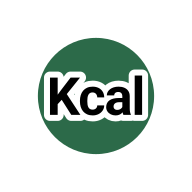
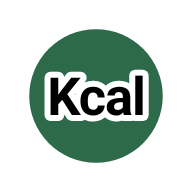
v89: bordo bianco dell'icona Android dimezzato, splash minima 1 secondo
Claude-Session: https://claude.ai/code/session_01NQde6mZoUuyFecDhpXk91C

Changed region(s): [[0.125, 0.125, 0.875, 0.875]]

diff --git a/index.html b/index.html
@@ -398,8 +398,8 @@ details.food .btn.ghost{background:var(--brand);color:#fff;border:0;border-radiu
 </head>
 <body>
 <div id="splash" aria-hidden="true"><svg style="position:absolute;left:4%;top:3%;width:81px;height:81px;transform:rotate(-12deg);" viewBox="0 0 64 64"><path d="M32 18c-6-5-20-4-20 12 0 14 10 26 20 22 10 4 20-8 20-22 0-16-14-17-20-12z" fill="#e5483b"/><path d="M22 24c-4 3-5 9-4 14" stroke="#ff8a7d" stroke-width="3" stroke-linecap="round" fill="none"/><path d="M32 18c0-5 2-9 6-11" stroke="#7a4b2a" stroke-width="3" stroke-linecap="round" fill="none"/><path d="M35 12c4-6 12-6 15-3-3 5-10 7-15 3z" fill="#5fbf4a"/></svg><svg style="position:absolute;left:32%;top:4%;width:68px;height:68px;transform:rotate(6deg);" viewBox="0 0 64 64"><path d="M44 18c4 2 6 6 4 10L20 58c-2 2-5 0-4-2L36 20c2-3 5-4 8-2z" fill="#f58a1f"/><path d="M44 18c2 1 3 3 3 5L22 56c-1 1-2 0-2-1z" fill="#ffa64d" opacity=".55"/><path d="M30 33l5 2M26 41l5 2M34 26l4 1" stroke="#d96a0c" stroke-width="2.2" stroke-linecap="round"/><path d="M44 18c-3-6-2-12 1-15 3 5 3 10-1 15z" fill="#3e9a43"/><path d="M45 19c4-5 10-6 13-4-3 5-8 6-13 4z" fill="#5fbf4a"/><path d="M44 18c1-6 5-10 9-11 0 5-4 9-9 11z" fill="#4caf50"/></svg><svg style="position:absolute;left:58%;top:1%;width:84px;height:84px;transform:rotate(14deg);" viewBox="0 0 64 64"><path d="M12 14c-2 20 10 38 32 40 6 1 11-1 13-4-2-2-4-2-7-2-17-1-28-14-30-33z" fill="#ffd84a"/><path d="M12 14c0 18 11 34 31 37 5 1 9 0 12-2-16-1-28-12-31-31z" fill="#f2c12e"/><path d="M17 20c2 14 11 25 25 28" stroke="#fff3a6" stroke-width="2.4" fill="none" stroke-linecap="round" opacity=".8"/><path d="M10 10l5-2 3 7-5 2z" fill="#7a6a32"/><path d="M55 48l4-1 1 4-4 1z" fill="#5a4a22"/></svg><svg style="position:absolute;left:82%;top:6%;width:54px;height:54px;transform:rotate(8deg);" viewBox="0 0 64 64"><path d="M32 58C18 48 12 34 16 26c3-5 9-6 16-6s13 1 16 6c4 8-2 22-16 32z" fill="#e53950"/><g fill="#ffd54f"><circle cx="24" cy="30" r="1.4"/><circle cx="32" cy="28" r="1.4"/><circle cx="40" cy="30" r="1.4"/><circle cx="28" cy="38" r="1.4"/><circle cx="36" cy="38" r="1.4"/><circle cx="32" cy="46" r="1.4"/></g><path d="M20 22c4 0 8-4 12-10 4 6 8 10 12 10-4 3-8 3-12 1-4 2-8 2-12-1z" fill="#4caf50"/></svg><svg style="position:absolute;left:16%;top:14%;width:54px;height:54px;transform:rotate(-6deg);" viewBox="0 0 64 64"><circle cx="32" cy="32" r="22" fill="#f7d23e"/><circle cx="32" cy="32" r="18" fill="#fff6c7"/><g stroke="#f7d23e" stroke-width="2.5"><path d="M32 15v34M15 32h34M20 20l24 24M44 20L20 44"/></g><circle cx="32" cy="32" r="3" fill="#fff6c7"/></svg><svg style="position:absolute;left:44%;top:13%;width:76px;height:76px;transform:rotate(-8deg);" viewBox="0 0 64 64"><path d="M28 34h8l3 20h-14z" fill="#8bc34a"/><circle cx="22" cy="28" r="10" fill="#3e9a43"/><circle cx="42" cy="28" r="10" fill="#3e9a43"/><circle cx="32" cy="20" r="12" fill="#4caf50"/><circle cx="26" cy="19" r="3" fill="#6cc25a"/><circle cx="38" cy="24" r="3" fill="#6cc25a"/></svg><svg style="position:absolute;left:72%;top:16%;width:76px;height:76px;transform:rotate(10deg);" viewBox="0 0 64 64"><circle cx="32" cy="35" r="21" fill="#f7931e"/><circle cx="25" cy="28" r="6" fill="#ffb55c" opacity=".7"/><g fill="#e07b0c" opacity=".55"><circle cx="38" cy="40" r="1.2"/><circle cx="30" cy="44" r="1.2"/><circle cx="42" cy="32" r="1.2"/><circle cx="22" cy="40" r="1.2"/></g><path d="M32 14c0-3 1-5 3-6" stroke="#6b4a24" stroke-width="2.4" stroke-linecap="round" fill="none"/><path d="M34 12c5-5 12-4 14-1-4 4-10 4-14 1z" fill="#4caf50"/></svg><svg style="position:absolute;left:2%;top:25%;width:68px;height:68px;transform:rotate(-10deg);" viewBox="0 0 64 64"><g fill="#7b3fa0"><circle cx="24" cy="24" r="7"/><circle cx="38" cy="24" r="7"/><circle cx="31" cy="34" r="7"/><circle cx="18" cy="35" r="6"/><circle cx="44" cy="35" r="6"/><circle cx="25" cy="45" r="6"/><circle cx="38" cy="45" r="6"/><circle cx="31" cy="55" r="5"/></g><g fill="#a86bd0" opacity=".7"><circle cx="22" cy="22" r="2"/><circle cx="36" cy="22" r="2"/><circle cx="29" cy="32" r="2"/></g><path d="M31 17c0-4 2-7 5-9" stroke="#6b4a24" stroke-width="2.6" stroke-linecap="round" fill="none"/><path d="M36 12c5-4 11-3 13 0-4 3-9 4-13 0z" fill="#5fbf4a"/></svg><svg style="position:absolute;left:60%;top:25%;width:81px;height:81px;transform:rotate(-6deg);" viewBox="0 0 64 64"><circle cx="32" cy="32" r="22" fill="#8a6b3a"/><circle cx="32" cy="32" r="19" fill="#8dc63f"/><circle cx="32" cy="32" r="8" fill="#e8f3c4"/><g fill="#2d2a1e"><circle cx="32" cy="21" r="1.4"/><circle cx="40" cy="25" r="1.4"/><circle cx="43" cy="32" r="1.4"/><circle cx="40" cy="39" r="1.4"/><circle cx="32" cy="43" r="1.4"/><circle cx="24" cy="39" r="1.4"/><circle cx="21" cy="32" r="1.4"/><circle cx="24" cy="25" r="1.4"/></g></svg><svg style="position:absolute;left:84%;top:27%;width:81px;height:81px;transform:rotate(12deg);" viewBox="0 0 64 64"><path d="M32 12c-5 0-6 6-8 12-2 5-8 9-8 18a16 16 0 0032 0c0-9-6-13-8-18-2-6-3-12-8-12z" fill="#a5cf4a"/><path d="M24 40c0 5 3 9 7 10" stroke="#c8e57a" stroke-width="3" stroke-linecap="round" fill="none"/><path d="M32 12c0-4 1-6 3-8" stroke="#7a4b2a" stroke-width="3" stroke-linecap="round" fill="none"/><path d="M34 8c4-3 9-2 10 0-3 3-7 3-10 0z" fill="#5fbf4a"/></svg><svg style="position:absolute;left:28%;top:24%;width:70px;height:70px;transform:rotate(-16deg);" viewBox="0 0 64 64"><circle cx="32" cy="36" r="20" fill="#e53935"/><ellipse cx="24" cy="30" rx="5" ry="7" fill="#ff7a6e" opacity=".6"/><path d="M32 18l-4-6 4 3 4-3-4 6 9-2-7 5 6 4-8-2-8 2 6-4-7-5z" fill="#3e9a43"/></svg><svg style="position:absolute;left:3%;top:39%;width:73px;height:73px;transform:rotate(-14deg);" viewBox="0 0 64 64"><path d="M32 6c-8 0-12 14-16 24-5 12 3 26 16 26s21-14 16-26C44 20 40 6 32 6z" fill="#3f7d2e"/><path d="M32 12c-6 0-9 11-12 19-4 10 3 20 12 20s16-10 12-20C41 23 38 12 32 12z" fill="#cfe58a"/><circle cx="32" cy="37" r="8" fill="#8a5a33"/><circle cx="29.5" cy="34.5" r="2.4" fill="#b07a4d"/></svg><svg style="position:absolute;left:82%;top:38%;width:78px;height:78px;transform:rotate(8deg);" viewBox="0 0 64 64"><path d="M40 22c10 4 14 18 6 28-8 10-26 8-30-2-3-8 4-14 10-16 6-2 8-12 14-10z" fill="#6a3d8f"/><path d="M26 40c2 6 8 9 14 8" stroke="#9a6bc2" stroke-width="3" fill="none" stroke-linecap="round" opacity=".7"/><path d="M38 20c2-4 6-6 10-5-1 4-4 7-8 8z" fill="#4caf50"/><path d="M36 22c4-1 8 1 10 4-4 1-8 0-10-4z" fill="#3e9a43"/><path d="M46 15l4-6" stroke="#3e9a43" stroke-width="3" stroke-linecap="round"/></svg><svg style="position:absolute;left:5%;top:67%;width:81px;height:81px;transform:rotate(12deg);" viewBox="0 0 64 64"><path d="M32 12c-5 0-6 6-8 12-2 5-8 9-8 18a16 16 0 0032 0c0-9-6-13-8-18-2-6-3-12-8-12z" fill="#a5cf4a"/><path d="M24 40c0 5 3 9 7 10" stroke="#c8e57a" stroke-width="3" stroke-linecap="round" fill="none"/><path d="M32 12c0-4 1-6 3-8" stroke="#7a4b2a" stroke-width="3" stroke-linecap="round" fill="none"/><path d="M34 8c4-3 9-2 10 0-3 3-7 3-10 0z" fill="#5fbf4a"/></svg><svg style="position:absolute;left:30%;top:69%;width:68px;height:68px;transform:rotate(-10deg);" viewBox="0 0 64 64"><g fill="#7b3fa0"><circle cx="24" cy="24" r="7"/><circle cx="38" cy="24" r="7"/><circle cx="31" cy="34" r="7"/><circle cx="18" cy="35" r="6"/><circle cx="44" cy="35" r="6"/><circle cx="25" cy="45" r="6"/><circle cx="38" cy="45" r="6"/><circle cx="31" cy="55" r="5"/></g><g fill="#a86bd0" opacity=".7"><circle cx="22" cy="22" r="2"/><circle cx="36" cy="22" r="2"/><circle cx="29" cy="32" r="2"/></g><path d="M31 17c0-4 2-7 5-9" stroke="#6b4a24" stroke-width="2.6" stroke-linecap="round" fill="none"/><path d="M36 12c5-4 11-3 13 0-4 3-9 4-13 0z" fill="#5fbf4a"/></svg><svg style="position:absolute;left:56%;top:68%;width:81px;height:81px;transform:rotate(10deg);" viewBox="0 0 64 64"><path d="M32 18c-6-5-20-4-20 12 0 14 10 26 20 22 10 4 20-8 20-22 0-16-14-17-20-12z" fill="#e5483b"/><path d="M22 24c-4 3-5 9-4 14" stroke="#ff8a7d" stroke-width="3" stroke-linecap="round" fill="none"/><path d="M32 18c0-5 2-9 6-11" stroke="#7a4b2a" stroke-width="3" stroke-linecap="round" fill="none"/><path d="M35 12c4-6 12-6 15-3-3 5-10 7-15 3z" fill="#5fbf4a"/></svg><svg style="position:absolute;left:80%;top:66%;width:78px;height:78px;transform:rotate(8deg);" viewBox="0 0 64 64"><path d="M40 22c10 4 14 18 6 28-8 10-26 8-30-2-3-8 4-14 10-16 6-2 8-12 14-10z" fill="#6a3d8f"/><path d="M26 40c2 6 8 9 14 8" stroke="#9a6bc2" stroke-width="3" fill="none" stroke-linecap="round" opacity=".7"/><path d="M38 20c2-4 6-6 10-5-1 4-4 7-8 8z" fill="#4caf50"/><path d="M36 22c4-1 8 1 10 4-4 1-8 0-10-4z" fill="#3e9a43"/><path d="M46 15l4-6" stroke="#3e9a43" stroke-width="3" stroke-linecap="round"/></svg><svg style="position:absolute;left:14%;top:79%;width:81px;height:81px;transform:rotate(-6deg);" viewBox="0 0 64 64"><circle cx="32" cy="32" r="22" fill="#8a6b3a"/><circle cx="32" cy="32" r="19" fill="#8dc63f"/><circle cx="32" cy="32" r="8" fill="#e8f3c4"/><g fill="#2d2a1e"><circle cx="32" cy="21" r="1.4"/><circle cx="40" cy="25" r="1.4"/><circle cx="43" cy="32" r="1.4"/><circle cx="40" cy="39" r="1.4"/><circle cx="32" cy="43" r="1.4"/><circle cx="24" cy="39" r="1.4"/><circle cx="21" cy="32" r="1.4"/><circle cx="24" cy="25" r="1.4"/></g></svg><svg style="position:absolute;left:42%;top:80%;width:68px;height:68px;transform:rotate(-20deg);" viewBox="0 0 64 64"><path d="M44 18c4 2 6 6 4 10L20 58c-2 2-5 0-4-2L36 20c2-3 5-4 8-2z" fill="#f58a1f"/><path d="M44 18c2 1 3 3 3 5L22 56c-1 1-2 0-2-1z" fill="#ffa64d" opacity=".55"/><path d="M30 33l5 2M26 41l5 2M34 26l4 1" stroke="#d96a0c" stroke-width="2.2" stroke-linecap="round"/><path d="M44 18c-3-6-2-12 1-15 3 5 3 10-1 15z" fill="#3e9a43"/><path d="M45 19c4-5 10-6 13-4-3 5-8 6-13 4z" fill="#5fbf4a"/><path d="M44 18c1-6 5-10 9-11 0 5-4 9-9 11z" fill="#4caf50"/></svg><svg style="position:absolute;left:70%;top:78%;width:84px;height:84px;transform:rotate(14deg);" viewBox="0 0 64 64"><path d="M12 14c-2 20 10 38 32 40 6 1 11-1 13-4-2-2-4-2-7-2-17-1-28-14-30-33z" fill="#ffd84a"/><path d="M12 14c0 18 11 34 31 37 5 1 9 0 12-2-16-1-28-12-31-31z" fill="#f2c12e"/><path d="M17 20c2 14 11 25 25 28" stroke="#fff3a6" stroke-width="2.4" fill="none" stroke-linecap="round" opacity=".8"/><path d="M10 10l5-2 3 7-5 2z" fill="#7a6a32"/><path d="M55 48l4-1 1 4-4 1z" fill="#5a4a22"/></svg><svg style="position:absolute;left:22%;top:90%;width:76px;height:76px;transform:rotate(10deg);" viewBox="0 0 64 64"><circle cx="32" cy="35" r="21" fill="#f7931e"/><circle cx="25" cy="28" r="6" fill="#ffb55c" opacity=".7"/><g fill="#e07b0c" opacity=".55"><circle cx="38" cy="40" r="1.2"/><circle cx="30" cy="44" r="1.2"/><circle cx="42" cy="32" r="1.2"/><circle cx="22" cy="40" r="1.2"/></g><path d="M32 14c0-3 1-5 3-6" stroke="#6b4a24" stroke-width="2.4" stroke-linecap="round" fill="none"/><path d="M34 12c5-5 12-4 14-1-4 4-10 4-14 1z" fill="#4caf50"/></svg><svg style="position:absolute;left:56%;top:90%;width:54px;height:54px;transform:rotate(-8deg);" viewBox="0 0 64 64"><path d="M32 58C18 48 12 34 16 26c3-5 9-6 16-6s13 1 16 6c4 8-2 22-16 32z" fill="#e53950"/><g fill="#ffd54f"><circle cx="24" cy="30" r="1.4"/><circle cx="32" cy="28" r="1.4"/><circle cx="40" cy="30" r="1.4"/><circle cx="28" cy="38" r="1.4"/><circle cx="36" cy="38" r="1.4"/><circle cx="32" cy="46" r="1.4"/></g><path d="M20 22c4 0 8-4 12-10 4 6 8 10 12 10-4 3-8 3-12 1-4 2-8 2-12-1z" fill="#4caf50"/></svg><svg style="position:absolute;left:84%;top:89%;width:76px;height:76px;transform:rotate(6deg);" viewBox="0 0 64 64"><path d="M28 34h8l3 20h-14z" fill="#8bc34a"/><circle cx="22" cy="28" r="10" fill="#3e9a43"/><circle cx="42" cy="28" r="10" fill="#3e9a43"/><circle cx="32" cy="20" r="12" fill="#4caf50"/><circle cx="26" cy="19" r="3" fill="#6cc25a"/><circle cx="38" cy="24" r="3" fill="#6cc25a"/></svg><div class="sc"><div class="si"><img src="icone/icona-kcal-512.png" alt=""></div><div class="sm">Mangia bene, conta giusto</div><div class="sd"><i></i><i></i><i></i></div></div></div>
-<script>/* splash: dura almeno 0,5 s dall'apertura; se il caricamento è più lento sparisce appena l'app è pronta */
-function hideSplash(){const s=document.getElementById('splash');if(!s||s.dataset.h)return;s.dataset.h=1;setTimeout(()=>{s.classList.add('out');setTimeout(()=>s.remove(),350)},Math.max(0,500-performance.now()))}
+<script>/* splash: dura almeno 1 s dall'apertura; se il caricamento è più lento sparisce appena l'app è pronta */
+function hideSplash(){const s=document.getElementById('splash');if(!s||s.dataset.h)return;s.dataset.h=1;setTimeout(()=>{s.classList.add('out');setTimeout(()=>s.remove(),350)},Math.max(0,1000-performance.now()))}
 window.addEventListener('error',()=>hideSplash());</script>
 <div id="lock" class="lock" hidden>
   <h1>Diario Calorie</h1>
@@ -510,7 +510,7 @@ window.addEventListener('error',()=>hideSplash());</script>
           <button class="btn bad" id="resetApp" style="width:100%">Reset App</button>
           <p class="hm" style="margin-bottom:0;text-align:center">(scollega l'account Google e cancella tutti i dati)<br>Cancella solo i dati su questo telefono: i backup su Drive restano.</p>
         </div>
-        <p class="hm">Versione 88 · i valori nutrizionali sono stime del modello.</p>
+        <p class="hm">Versione 89 · i valori nutrizionali sono stime del modello.</p>
       </div>
       <div class="applybar"><button class="btn" id="apply">Applica e torna al Diario</button></div>
     </section>

diff --git a/pianificazione-KalRaf28.md b/pianificazione-KalRaf28.md
@@ -192,7 +192,8 @@ Lo stato di Drive è a parte, in `localStorage` con chiave `kalraf28_drive`.
   - Alimenti nello stile del Diario (v80–v84): testata verde con ricerca a pillola, schede a pillola alte due righe con bordo verde, kcal e "per …" su due righe.
   - Foto degli alimenti (v86): Foto confezione 1, Foto confezione 2 e Foto tabella valori nutrizionali sulla stessa riga, con fotocamera, galleria e "Rimuovi"; microfono "Parla" sotto il campo di testo; in alto "Compila scheda Automaticamente / Manualmente" (predefinito: Automaticamente).
   - Scheda alimento (v87): microfono e invio accanto al campo di testo, come nel Diario.
-  - Schermata di avvio (v88): sfondo verde, icona "Kcal" in un cerchio con contorno bianco, motto "Mangia bene, conta giusto", puntini animati e frutta/verdura disegnate intorno. Dura almeno 0,5 secondi; se il caricamento è lento resta (con i puntini che si muovono) finché l'app non è pronta. Il service worker (cache kalraf28-v45) prova prima GitHub, ma se non risponde entro 0,8 secondi apre subito la copia salvata e la aggiorna in sottofondo: in quel caso la versione nuova arriva all'apertura successiva.
+  - Schermata di avvio (v88): sfondo verde, icona "Kcal" in un cerchio con contorno bianco, motto "Mangia bene, conta giusto", puntini animati e frutta/verdura disegnate intorno. Dura almeno 1 secondo (v89); se il caricamento è lento resta (con i puntini che si muovono) finché l'app non è pronta. Il service worker (cache kalraf28-v45) prova prima GitHub, ma se non risponde entro 0,8 secondi apre subito la copia salvata e la aggiorna in sottofondo: in quel caso la versione nuova arriva all'apertura successiva.
+  - Icona Android (v89): il bordo bianco sul Pixel era spesso perché PWABuilder mette l'icona maskable rimpicciolita (margine 8,5dp) su sfondo bianco. Cerchio verde dell'icona maskable portato da r=155 a r=178 (su 512) per dimezzare il bordo visibile. Serve rifare l'APK con la STESSA chiave (signing.keystore) per installarlo sopra quello attuale.
   - riga dei pasti spostata sopra il campo di scrittura, tolta la vecchia barra in basso (v60);
   - **nuovo sistema dei pasti (v63):** cerchio **+** fisso a sinistra della riga → menu "Aggiungi Colazione / Pranzo / Cena / Spuntino". Nella riga compaiono solo i pasti aggiunti, **nell'ordine in cui sono stati aggiunti** (`day.order`). Colazione, pranzo e cena uno solo ciascuno; spuntini numerati in sequenza, **massimo 9** (era 10 fino alla v70). Ogni pasto ha **"Elimina …"** con conferma (sostituisce "Svuota pasto"): eliminando uno spuntino in mezzo, i successivi vengono rinumerati. Tolti "Nuovo spuntino", lo spuntino "in corso" e gli spuntini "chiusi": tutti i pasti restano sempre modificabili. Le giornate salvate con il vecchio formato vengono convertite da sole.
 
